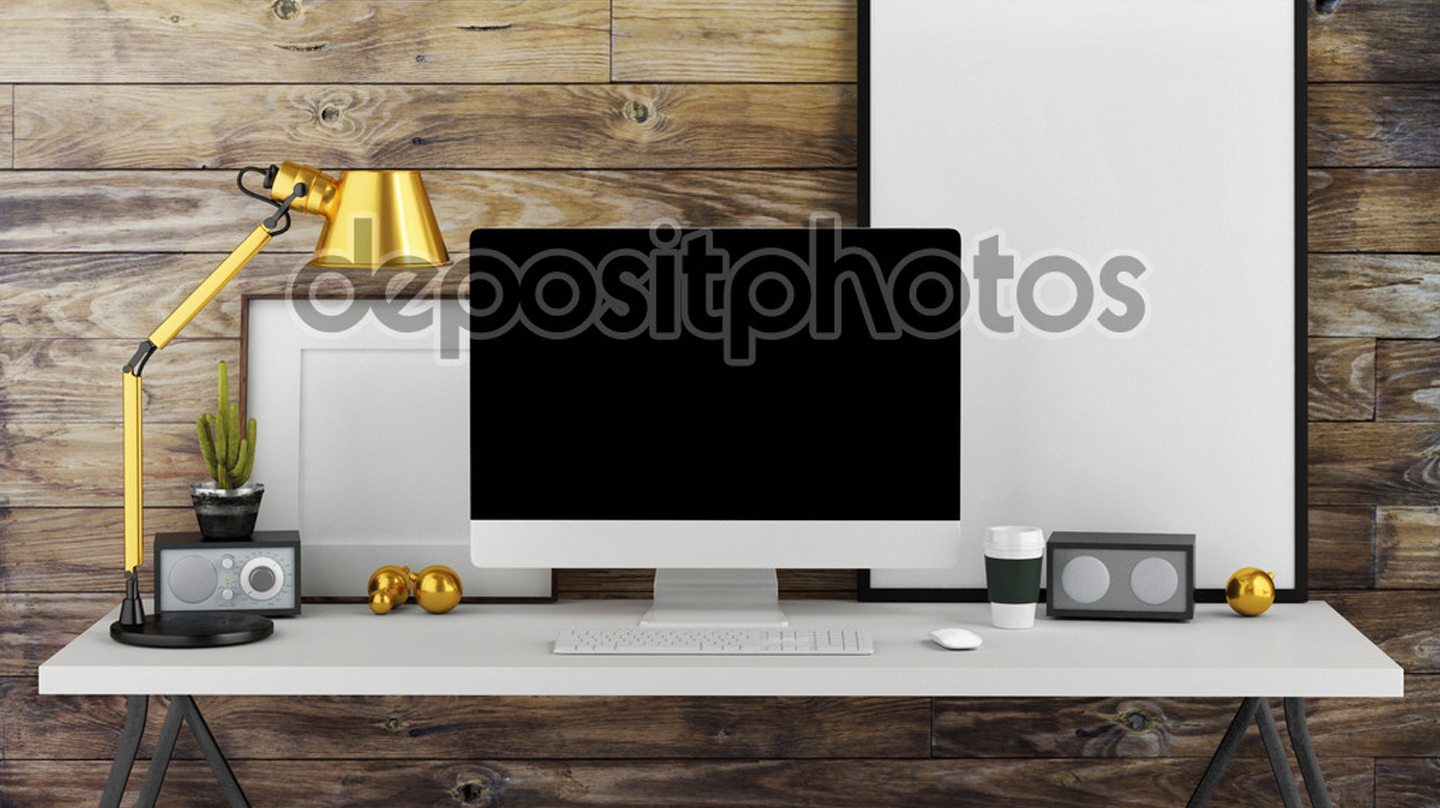
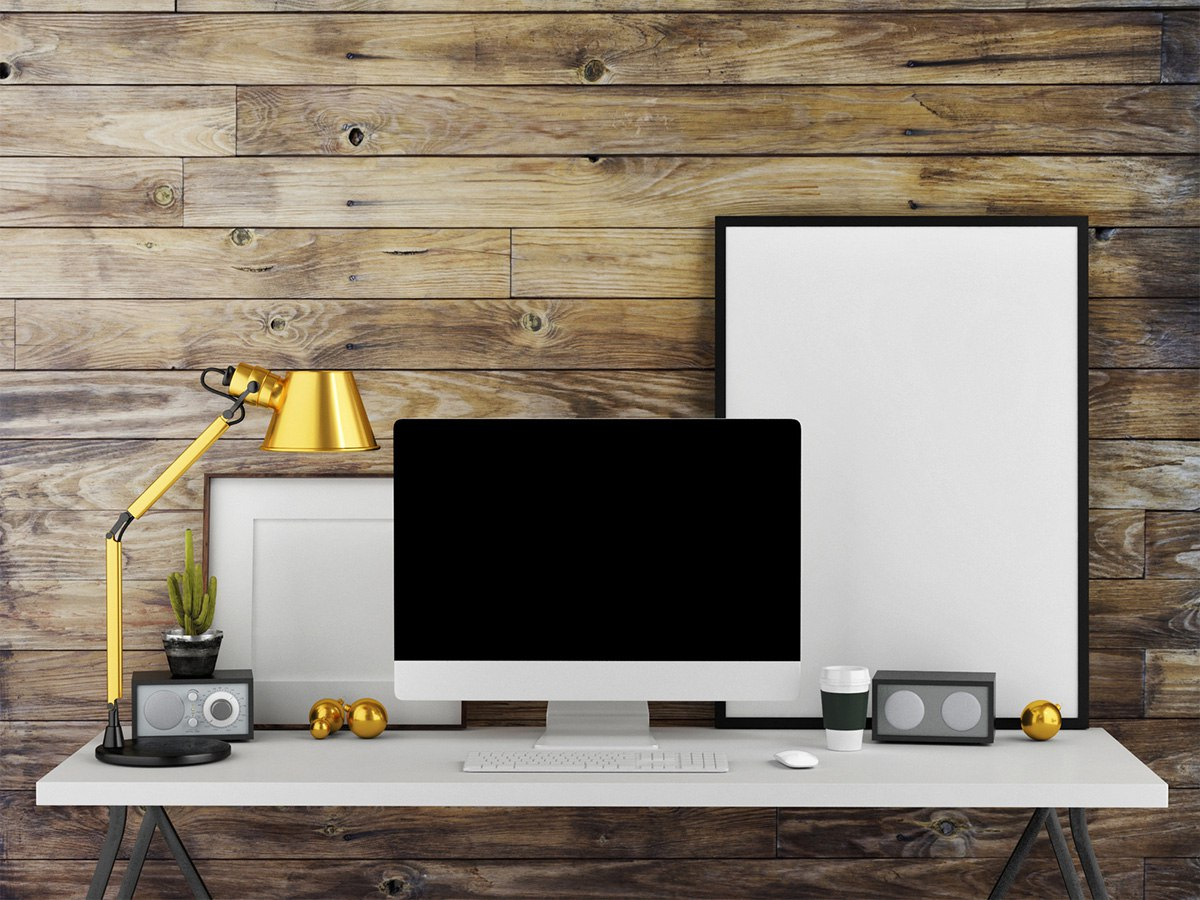
- Remove angular bindings while loading page; - Add picture to stock; - Replace background with picture without watermarks; - Replace "subclient" with "suzhet"; - Show price per month in list of constructions - Calculate cost for date range in shopping cart

diff --git a/web/js/app/shopping-cart.js b/web/js/app/shopping-cart.js
@@ -37,6 +37,7 @@
         vm.editPeriod = editPeriod;
         vm.removeItem = removeItem;
         vm.getReservationTillDate = getReservationTillDate;
+        vm.getItemCost = getItemCost;
 
         function init() {
             vm.cartItems = cartItems;
@@ -47,6 +48,7 @@
                 item.marketing_type_id = vm.marketingTypes[0].id.toString();
                 item.from = convertToCurrentFormat(new Date(item.from));
                 item.to = convertToCurrentFormat(new Date(item.to));
+                item.cost = getItemCost(item);
             });
         }
 
@@ -66,10 +68,22 @@
                 item.cost = item.price;
             }
 
-            var marketingType = _.find(vm.marketingTypes, { 'id': parseInt(item.marketing_type_id) });
-            var charge = marketingType.charge + 100;
+            item.cost = getItemCost(item);
+        }
 
-            item.cost = item.price * charge / 100;
+        function getItemMarketingTypeCharge(item) {
+            var marketingType = _.find(vm.marketingTypes, { 'id': parseInt(item.marketing_type_id) });
+            return marketingType.charge + 100;
+        }
+
+        function getItemCost(item) {
+            var charge = getItemMarketingTypeCharge(item);
+
+            var to = new Date(item.to);
+            var from = new Date(item.from);
+            var days = (to - from)/(1000*60*60*24) + 1;
+
+            return (days * (item.price * charge / 100)).toFixed(2);
         }
 
         function submit() {
@@ -117,6 +131,7 @@
         function onPeriodChanged(item, result) {
             item.from = convertToCurrentFormat(result.from);
             item.to = convertToCurrentFormat(result.to);
+            item.cost = getItemCost(item);
         }
 
         function convertToCurrentFormat(date) {

diff --git a/web/js/app/constructions.js b/web/js/app/constructions.js
@@ -38,6 +38,7 @@
         vm.showSummary = showSummary;
         vm.selectConstructionType = selectConstructionType;
         vm.selectConstruction = selectConstruction;
+        vm.getPriceForMonth = getPriceForMonth;
 
         function init() {
             vm.isEmployee = isEmployee;
@@ -68,6 +69,10 @@
                     }
                 };
             })
+        }
+
+        function getPriceForMonth(construction) {
+            return (construction.price * 30).toFixed(2);
         }
 
         function selectConstruction(construction) {

diff --git a/web/styles/common.css b/web/styles/common.css
@@ -510,7 +510,11 @@ table td a:hover {
     line-height: 27px;
 }
 
-.stock-window > .content > .watermark {
+.stock-window .stock-container {
+    position: relative;
+}
+
+.stock-window .watermark {
     color: #FFFFFF;
     line-height: 25px;
     position: absolute;
@@ -520,7 +524,7 @@ table td a:hover {
     bottom: -35px;
 }
 
-.stock-window > .content {
+.stock-window .content {
     max-width: 80%;
     width: auto;
     text-align: center;

diff --git a/views/shopping-cart/index.php b/views/shopping-cart/index.php
@@ -80,17 +80,17 @@ $this->registerJsFile('@web/js/app/shopping-cart.js');
                     </thead>
                     <tbody>
                         <tr ng-repeat="item in $ctrl.cartItems">
-                            <td class="text-center">{{ $index + 1 }}</td>
-                            <td><a href="/construction/details?id={{item.advertising_construction_id}}">{{ item.name }}</a> <span ng-if="item.status_id == 11">(резерв до {{ $ctrl.getReservationTillDate(item.created_at) }})</span></td>
-                            <td>{{ item.address }}</td>
-                            <td class="text-center">{{ item.from }} - {{ item.to }} <a href="" ng-click="$ctrl.editPeriod(item)" class="additional-link"><i class="icon edit-icon"></i></a></td>
-                            <td class="text-center">{{ item.cost }}</td>
+                            <td class="text-center" ng-bind="$index + 1"></td>
+                            <td><a href="/construction/details?id={{item.advertising_construction_id}}" ng-bind="item.name"></a> <span ng-if="item.status_id == 11">(резерв до <span ng-bind="$ctrl.getReservationTillDate(item.created_at)"></span>)</span></td>
+                            <td ng-bind="item.address"></td>
+                            <td class="text-center"><span ng-bind="item.from + ' - ' + item.to"></span> <a href="" ng-click="$ctrl.editPeriod(item)" class="additional-link"><i class="icon edit-icon"></i></a></td>
+                            <td class="text-center" ng-bind="item.cost"></td>
                             <td class="text-center">
                                 <select class="form-control" ng-model="item.marketing_type_id" ng-change="$ctrl.onItemMarketingTypeChanged(item)">
-                                    <option ng-repeat="mt in $ctrl.marketingTypes" value="{{ mt.id }}">{{ mt.name }}</option>
+                                    <option ng-repeat="mt in $ctrl.marketingTypes" value="{{ mt.id }}" ng-bind="mt.name"></option>
                                 </select>
                             </td>
-                            <td ng-if="$ctrl.isEmployee">{{ item.company }}</td>
+                            <td ng-if="$ctrl.isEmployee" ng-bind="item.company"></td>
                             <td class="text-center">
                                 <a href="" class="custom-btn sm white" ng-click="$ctrl.removeItem(item)">
                                     Удалить из корзины
@@ -109,7 +109,7 @@ $this->registerJsFile('@web/js/app/shopping-cart.js');
         <div ng-if="$ctrl.cartItems.length > 0">
             <div class="row block-row">
                 <div class="col-md-4">
-                    <span class="shopping-cart-total">Итого: <span class="total-cost">{{ $ctrl.getTotalCost() }}</span> бел. руб. с НДС</span>
+                    <span class="shopping-cart-total">Итого: <span class="total-cost" ng-bind="$ctrl.getTotalCost()"></span> бел. руб. с НДС</span>
                 </div>
                 <div class="col-md-8">
                     <div class="pull-right">

diff --git a/views/construction/index.php b/views/construction/index.php
@@ -75,7 +75,7 @@ $this->title = "Каталог рекламных конструкций";
                                  ng-class="{'active' : type.id == $ctrl.selectedConstructionType }"
                                  ng-repeat="type in $ctrl.constructionTypes"
                                  ng-click="$ctrl.selectConstructionType(type.id)">
-                                <a href="">{{type.name}}</a>
+                                <a href="" ng-bind="type.name"></a>
                             </div>
                         </div>
                     </div>
@@ -125,11 +125,11 @@ $this->title = "Каталог рекламных конструкций";
                                     <input type="checkbox" id="construction_{{construction.id}}" class="modal-checkbox hide" ng-model="construction.isSelected" name="selectedConstruction_{{$index}}" />
                                     <label for="construction_{{construction.id}}"></label>
                                 </td>
-                                <td>{{ construction.name }}</td>
-                                <td>{{ construction.address }}</td>
-                                <td class="text-center">{{ construction.size }}</td>
-                                <td class="text-center">{{ construction.price }}</td>
-                                <td class="text-center">{{ construction.isBusy ? 'занята' : 'свободна' }}</td>
+                                <td ng-bind="construction.name"></td>
+                                <td ng-bind="construction.address"></td>
+                                <td class="text-center" ng-bind="construction.size"></td>
+                                <td class="text-center" ng-bind="$ctrl.getPriceForMonth(construction)"></td>
+                                <td class="text-center" ng-bind="construction.isBusy ? 'занята' : 'свободна'"></td>
                                 <td class="text-center">
                                     <a href="/construction/details?id={{ construction.id}}&q={{$ctrl.queryString}}">Подробнее</a>
                                 </td>

diff --git a/views/clients/_documents.php b/views/clients/_documents.php
@@ -43,7 +43,7 @@ use yii\web\View;
                         </tbody>
                     </table>
                 <?php } else { ?>
-                    Нет субклиентов.
+                    Нет сюжетов.
                 <?php } ?>
             </div>
         <?php } ?>
@@ -101,7 +101,7 @@ use yii\web\View;
         <?php if (!$isViewMode) { ?>
             <?php if ($isAgency) { ?>
                 <div class="col-sm-4">
-                    <a href="#" class="additional-link" ng-click="$ctrl.openAddSubclientModal($event)"><i class="icon add-subclient-icon"></i>Добавить субклиента</a>
+                    <a href="#" class="additional-link" ng-click="$ctrl.openAddSubclientModal($event)"><i class="icon add-subclient-icon"></i>Добавить сюжет</a>
                 </div>
             <?php } ?>
             <div class="col-sm-8" ng-if="!!$ctrl.selectedSubclientId || !$ctrl.subclients || $ctrl.subclients.length == 0">

diff --git a/components/views/_stock.php b/components/views/_stock.php
@@ -13,11 +13,12 @@ if ($model->content) {
 ?>
 
     <div class="stock-window">
-        <div class="content">
-            <a href="#close" title="Закрыть" class="close" onclick="$('.stock-window').hide();">X</a>
+        <div class="stock-container">
+            <div class="content">
+                <a href="#close" title="Закрыть" class="close" onclick="$('.stock-window').hide();">X</a>
 
-            <?php echo $model->content; ?>
-
+                <?php echo $model->content; ?>
+            </div>
             <div class="watermark">
                 Сайт носит рекламно-информационный характер и не используется в качестве интернет-магазина, в том числе для торговли по образцам и с помощью курьера.
             </div>

diff --git a/components/views/_addSubclient.php b/components/views/_addSubclient.php
@@ -18,7 +18,7 @@ use yii\widgets\ActiveForm;
         <div class="modal-content">
             <div class="modal-header">
                 <button type="button" class="close" data-dismiss="modal">&times;</button>
-                <h4 class="modal-title text-center text-uppercase"><strong>Добавление субклиента</strong></h4>
+                <h4 class="modal-title text-center text-uppercase"><strong>Добавление сюжета</strong></h4>
             </div>
             <div class="modal-body">
                 <div class="content">
